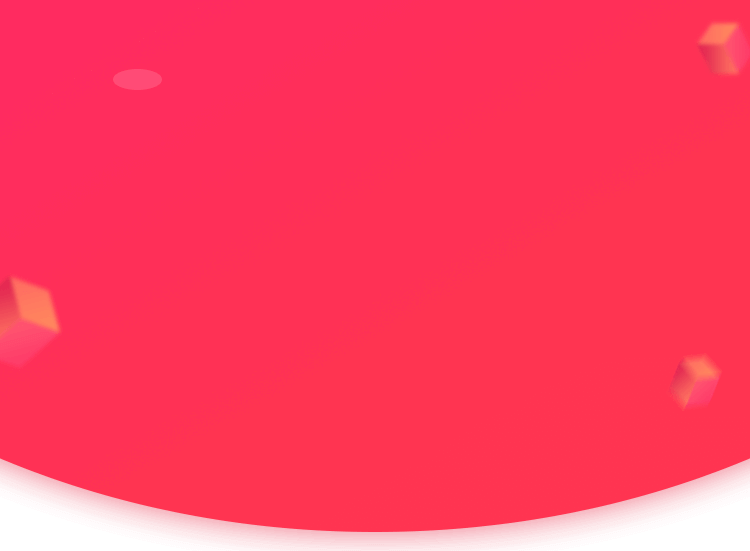
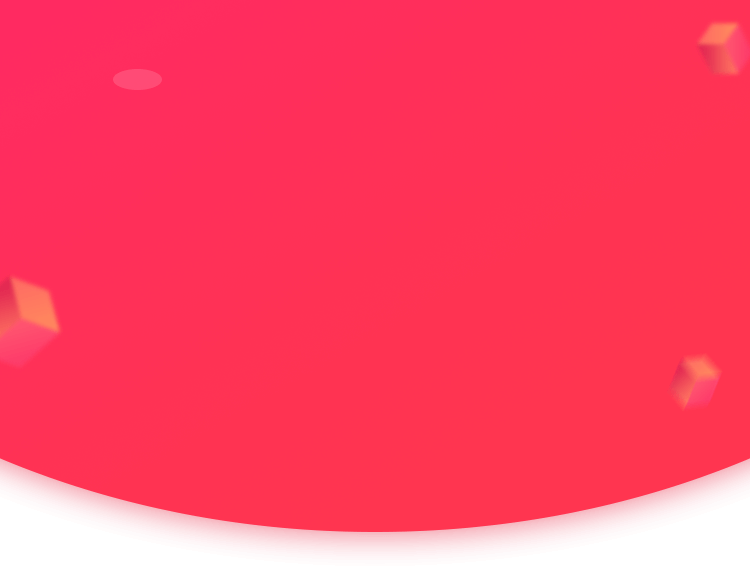
红包头图片修改

diff --git a/activity/cashRedPack20170417/sass/land.scss b/activity/cashRedPack20170417/sass/land.scss
@@ -13,7 +13,7 @@
     text-align: center;
     .redtop-title {
         font-size: pxToRem(40px);
-        padding: pxToRem(60px) 0 pxToRem(26px);
+        padding: pxToRem(52px) 0 pxToRem(26px);
         color: #ffe1a2;
     }
     p {
@@ -26,19 +26,19 @@
     }
     .icon-star-yellow {
         left: pxToRem(282px);
-        top: percent(50, 551);
+        top: percent(50, 569);
     }
     .icon-star-white {
         right: pxToRem(240px);
-        bottom: percent(138, 551);
+        bottom: percent(138, 569);
     }
     .icon-star-w-s {
         right: pxToRem(226px);
-        bottom: percent(115, 551);
+        bottom: percent(115, 569);
     }
     .icon-star-w-m {
         left: pxToRem(206px);
-        bottom: percent(80, 551);
+        bottom: percent(80, 569);
     }
     .avatar {
         position: absolute;
@@ -228,7 +228,7 @@
         position: absolute;
         left: pxToRem(60px);
         right: pxToRem(60px);
-        top: percent(267, 551);
+        top: percent(267, 569);
         color: #ffe1a2;
         font-size: pxToRem(30px);
         text-align: center;
@@ -242,8 +242,8 @@
         position: absolute;
         left: 50%;
         margin-left: pxToRem(-210px);
-        bottom: percent(-150, 551);
-        height: percent(420, 551);
+        bottom: percent(-150, 569);
+        height: percent(420, 569);
         perspective: 1500px;
         animation: openAni $open-step1 linear 0s 1 both;
     }
@@ -256,25 +256,25 @@
     }
     // .icon-star {
     //     right: pxToRem(196px);
-    //     bottom: percent(42, 551);
+    //     bottom: percent(42, 569);
     // }
     // .icon-star-small {
     //     left: pxToRem(218px);
-    //     bottom: percent(-60, 551);
+    //     bottom: percent(-60, 569);
     // }
     &.not-open {
         .red-content {
             opacity: 0;
         }
         .red-top {
-            // height: pxToRem(551px);
+            // height: pxToRem(569px);
             * {
                 z-index: 4;
             }
-            height: percent(551);
+            height: percent(569);
         }
         .avatar {
-            top: percent(58, 551);
+            top: percent(58, 569);
         }
         .redtop-txt {
             opacity: 1;
@@ -292,7 +292,7 @@
     }
     .red-top {
         position: absolute;
-        // height: pxToRem(551px);
+        // height: pxToRem(569px);
         z-index: 3;
         // transition
     }
